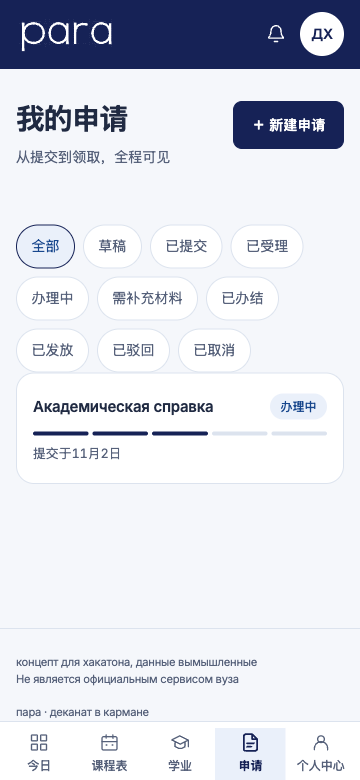
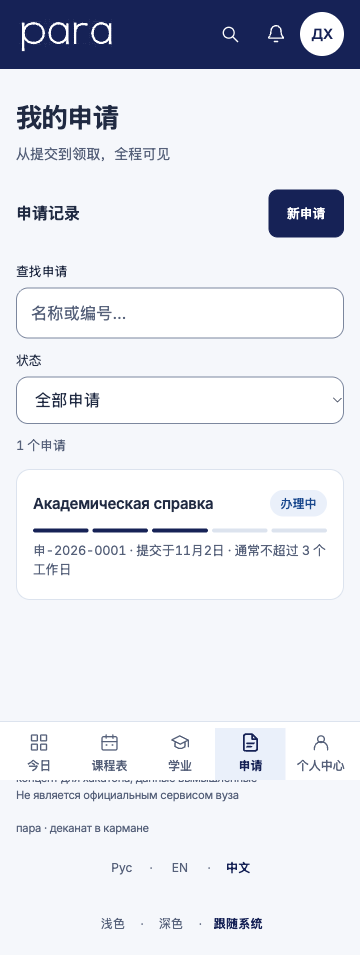
fe_rebuild v3: заявки, список — «История обращений», поиск по названию и витринному номеру З-ГГГГ-NNNN, фильтр групп статусов с ?status=, счётчик с plural (aria-live), «Сбросить фильтры», body.document-flow; ctest 2/2, security 119/119

diff --git a/static/js/app.js b/static/js/app.js
@@ -1780,9 +1780,54 @@
      фильтр ?status= — чипы-ссылки). Здесь только «Повторить» состояния
      ошибки: реально перезапрашивает — перезагрузка страницы (03 §5.3);
      офлайн обслуживает баннер каркаса (topbar + applyOffline, 03 §5.4). */
+  /* v3 (шаг 12): поиск по названию и витринному номеру (data-search карточки
+     — только то, что уже отрисовал сервер) + select групп статусов
+     (data-group, группы — шапка applications.csp); счётчик с plural
+     (data-one/few/many — словарь сервера), «Сбросить фильтры» → фокус в
+     поиск; группа синхронизируется с ?status= (replaceState). */
   if (document.body.dataset.page === 'applications') {
     const applicationsRetry = document.querySelector('[data-applications-retry]');
     if (applicationsRetry) applicationsRetry.addEventListener('click', () => window.location.reload());
+    const search = document.getElementById('application-search');
+    const filter = document.getElementById('application-filter');
+    const list = document.getElementById('application-list');
+    const count = document.querySelector('[data-apps-count]');
+    const filteredEmpty = document.querySelector('[data-apps-filtered-empty]');
+    const reset = document.querySelector('[data-apps-reset]');
+    if (search && filter && list) {
+      const cards = Array.from(list.querySelectorAll('.app-card'));
+      const norm = (v) => String(v || '').toLowerCase().replace(/ё/g, 'е').trim();
+      const plural = (n) => {
+        if (!count) return '';
+        if (LANG !== 'ru') return n === 1 ? count.dataset.one : count.dataset.many;
+        const m10 = n % 10, m100 = n % 100;
+        if (m10 === 1 && m100 !== 11) return count.dataset.one;
+        if (m10 >= 2 && m10 <= 4 && (m100 < 12 || m100 > 14)) return count.dataset.few;
+        return count.dataset.many;
+      };
+      const render = () => {
+        const q = norm(search.value);
+        const g = filter.value;
+        let n = 0;
+        cards.forEach((card) => {
+          const ok = (!g || card.dataset.group === g) && (!q || norm(card.dataset.search).indexOf(q) !== -1);
+          card.hidden = !ok;
+          if (ok) n += 1;
+        });
+        list.hidden = n === 0;
+        if (filteredEmpty) filteredEmpty.hidden = n > 0;
+        if (count) count.textContent = n + ' ' + plural(n);
+      };
+      const syncUrl = () => {
+        const url = new URL(window.location.href);
+        if (filter.value) url.searchParams.set('status', filter.value); else url.searchParams.delete('status');
+        history.replaceState(null, '', url.pathname + url.search);
+      };
+      search.addEventListener('input', render);
+      filter.addEventListener('change', () => { syncUrl(); render(); });
+      if (reset) reset.addEventListener('click', () => { search.value = ''; filter.value = ''; syncUrl(); render(); search.focus(); });
+      render();
+    }
   }
 
   /* ---------- экран «Новая заявка» (views/application-form.csp; 03

diff --git a/static/css/app.css b/static/css/app.css
@@ -916,6 +916,8 @@ button.chip{font:inherit;cursor:pointer}
 .lang-switch span{color:var(--text-2)}
 
 /* ---- стыки эталона v3 и прод-разметки (fe_rebuild) ---- */
+.app-card[hidden],.app-list[hidden]{display:none!important}
+.document-flow .section-title .button{flex:none}
 .ob-footer .button{white-space:nowrap}
 .htmx-indicator.skeleton{display:none}
 .htmx-request .htmx-indicator.skeleton,.htmx-request.htmx-indicator.skeleton{display:block;opacity:1}

diff --git a/src/models/i18n.h b/src/models/i18n.h
@@ -146,17 +146,36 @@ inline constexpr Entry kRu[]{
     {"app.title", "Пара"},
     // apps.* — заявки (список, каталог, чипы статусов)
     {"apps.chooseOther", "выбрать другой тип"},
+    {"apps.docAvailable", "документ доступен"},
     {"apps.emptyText", "Нужна справка или заявление? Начните с каталога — типовая справка занимает три касания."},
     {"apps.filterA11y", "Фильтр заявок по статусу"},
+    {"apps.filterActive", "В работе"},
+    {"apps.filterAll", "Все заявки"},
+    {"apps.filterClosed", "Закрытые"},
+    {"apps.filterDraft", "Черновики"},
+    {"apps.filterIssued", "Выданы"},
+    {"apps.filterLabel", "Статус"},
+    {"apps.filterReady", "Готовы"},
+    {"apps.filterReply", "Нужен ваш ответ"},
+    {"apps.filteredEmptyText", "Измените фильтр или оформите новую заявку."},
+    {"apps.filteredEmptyTitle", "Таких заявок пока нет"},
     {"apps.formSubtitle", "Выберите документ — форма подставит данные профиля"},
     {"apps.formTitle", "Новая заявка"},
     {"apps.from", "от"},
+    {"apps.history", "История обращений"},
     {"apps.new", "+ Новая заявка"},
+    {"apps.newShort", "Новая заявка"},
+    {"apps.numberPrefix", "З"},
     {"apps.offlineDraft", "Нужна сеть для черновика"},
     {"apps.offlineSubmit", "Нужна сеть, чтобы отправить заявку"},
     {"apps.openCatalog", "Открыть каталог"},
+    {"apps.pickupOffice", "можно забрать в деканате"},
     {"apps.profileNote", "Данные подставлены из профиля — при получении проверьте паспорт"},
+    {"apps.replyCaption", "деканат ждёт ваш ответ"},
+    {"apps.resetFilters", "Сбросить фильтры"},
     {"apps.saveDraft", "Сохранить черновик"},
+    {"apps.searchLabel", "Найти заявку"},
+    {"apps.searchPlaceholder", "Название или номер…"},
     {"apps.stagesPrefix", "Пройдено этапов:"},
     {"apps.stagesTotal", "из 5"},
     {"apps.statusAccepted", "Принята"},
@@ -171,6 +190,7 @@ inline constexpr Entry kRu[]{
     {"apps.submitApp", "Отправить заявку"},
     {"apps.subtitle", "Каждый шаг — от подачи до получения"},
     {"apps.title", "Мои заявки"},
+    {"apps.usualShort", "обычно до 3 рабочих дней"},
     {"apps.usualTime", "Обычно готова до 3 рабочих дней"},
     // campus.* — блок «В кампусе» дашборда
     {"campus.canteen", "Столовая"},
@@ -489,6 +509,9 @@ inline constexpr Entry kRu[]{
     {"onboarding.title", "Настраиваем кабинет"},
     // plural.* — формы для счётчиков («N пар», «N событий»…);
     // en/zh формы множественного не различает — one/few/many совпадают
+    {"plural.applicationFew", "заявки"},
+    {"plural.applicationMany", "заявок"},
+    {"plural.applicationOne", "заявка"},
     {"plural.changeFew", "изменения"},
     {"plural.changeMany", "изменений"},
     {"plural.changeOne", "изменение"},
@@ -723,17 +746,36 @@ inline constexpr Entry kEn[]{
     {"a11y.themeGroup", "Theme"},
     {"app.title", "Para"},
     {"apps.chooseOther", "choose another type"},
+    {"apps.docAvailable", "document available"},
     {"apps.emptyText", "Need a certificate or a statement? Start from the catalog — a standard certificate takes three taps."},
     {"apps.filterA11y", "Filter requests by status"},
+    {"apps.filterActive", "In progress"},
+    {"apps.filterAll", "All requests"},
+    {"apps.filterClosed", "Closed"},
+    {"apps.filterDraft", "Drafts"},
+    {"apps.filterIssued", "Issued"},
+    {"apps.filterLabel", "Status"},
+    {"apps.filterReady", "Ready"},
+    {"apps.filterReply", "Your reply needed"},
+    {"apps.filteredEmptyText", "Change the filter or file a new request."},
+    {"apps.filteredEmptyTitle", "No matching requests yet"},
     {"apps.formSubtitle", "Pick a document — the form fills in your profile data"},
     {"apps.formTitle", "New request"},
     {"apps.from", "from"},
+    {"apps.history", "Request history"},
     {"apps.new", "+ New request"},
+    {"apps.newShort", "New request"},
+    {"apps.numberPrefix", "R"},
     {"apps.offlineDraft", "Go online to save the draft"},
     {"apps.offlineSubmit", "Go online to submit the request"},
     {"apps.openCatalog", "Open the catalog"},
+    {"apps.pickupOffice", "ready for pickup at the dean's office"},
     {"apps.profileNote", "Filled in from your profile — check the passport details on pickup"},
+    {"apps.replyCaption", "the dean's office awaits your reply"},
+    {"apps.resetFilters", "Reset filters"},
     {"apps.saveDraft", "Save draft"},
+    {"apps.searchLabel", "Find a request"},
+    {"apps.searchPlaceholder", "Title or number…"},
     {"apps.stagesPrefix", "Stages completed:"},
     {"apps.stagesTotal", "of 5"},
     {"apps.statusAccepted", "Accepted"},
@@ -748,6 +790,7 @@ inline constexpr Entry kEn[]{
     {"apps.submitApp", "Submit request"},
     {"apps.subtitle", "Every step, from filing to pickup"},
     {"apps.title", "My requests"},
+    {"apps.usualShort", "usually up to 3 working days"},
     {"apps.usualTime", "Usually ready within 3 business days"},
     {"campus.canteen", "Canteen"},
     {"campus.canteenHint", "See the menu"},
@@ -1048,6 +1091,9 @@ inline constexpr Entry kEn[]{
     {"onboarding.stepSchedule", "Checked the schedule"},
     {"onboarding.steps", "4 steps"},
     {"onboarding.title", "Setting up your account"},
+    {"plural.applicationFew", "requests"},
+    {"plural.applicationMany", "requests"},
+    {"plural.applicationOne", "request"},
     {"plural.changeFew", "changes"},
     {"plural.changeMany", "changes"},
     {"plural.changeOne", "change"},
@@ -1275,17 +1321,36 @@ inline constexpr Entry kZh[]{
     {"a11y.themeGroup", "主题"},
     {"app.title", "Para"},
     {"apps.chooseOther", "选择其他类型"},
+    {"apps.docAvailable", "文件可查看"},
     {"apps.emptyText", "需要证明或申请？从目录开始——常用证明三次点击即可提交。"},
     {"apps.filterA11y", "按状态筛选申请"},
+    {"apps.filterActive", "处理中"},
+    {"apps.filterAll", "全部申请"},
+    {"apps.filterClosed", "已关闭"},
+    {"apps.filterDraft", "草稿"},
+    {"apps.filterIssued", "已发放"},
+    {"apps.filterLabel", "状态"},
+    {"apps.filterReady", "已就绪"},
+    {"apps.filterReply", "需要您回复"},
+    {"apps.filteredEmptyText", "请更改筛选条件或提交新申请。"},
+    {"apps.filteredEmptyTitle", "暂无符合条件的申请"},
     {"apps.formSubtitle", "选择文件类型，表单会自动填入个人信息"},
     {"apps.formTitle", "新建申请"},
     {"apps.from", "提交于"},
+    {"apps.history", "申请记录"},
     {"apps.new", "＋ 新建申请"},
+    {"apps.newShort", "新申请"},
+    {"apps.numberPrefix", "申"},
     {"apps.offlineDraft", "保存草稿需要网络"},
     {"apps.offlineSubmit", "提交申请需要网络"},
     {"apps.openCatalog", "打开目录"},
+    {"apps.pickupOffice", "可到教务处领取"},
     {"apps.profileNote", "信息已从个人资料带入，领取时请核对证件"},
+    {"apps.replyCaption", "教务处等待您的回复"},
+    {"apps.resetFilters", "重置筛选"},
     {"apps.saveDraft", "保存草稿"},
+    {"apps.searchLabel", "查找申请"},
+    {"apps.searchPlaceholder", "名称或编号…"},
     {"apps.stagesPrefix", "已完成阶段："},
     {"apps.stagesTotal", "，共 5 项"},
     {"apps.statusAccepted", "已受理"},
@@ -1300,6 +1365,7 @@ inline constexpr Entry kZh[]{
     {"apps.submitApp", "提交申请"},
     {"apps.subtitle", "从提交到领取，全程可见"},
     {"apps.title", "我的申请"},
+    {"apps.usualShort", "通常不超过 3 个工作日"},
     {"apps.usualTime", "通常 3 个工作日内办结"},
     {"campus.canteen", "食堂"},
     {"campus.canteenHint", "查看菜单"},
@@ -1600,6 +1666,9 @@ inline constexpr Entry kZh[]{
     {"onboarding.stepSchedule", "已查看课程表"},
     {"onboarding.steps", "4 个步骤"},
     {"onboarding.title", "正在设置你的空间"},
+    {"plural.applicationFew", "个申请"},
+    {"plural.applicationMany", "个申请"},
+    {"plural.applicationOne", "个申请"},
     {"plural.changeFew", "项变动"},
     {"plural.changeMany", "项变动"},
     {"plural.changeOne", "项变动"},

diff --git a/src/controllers/ApplicationsCtrl.cpp b/src/controllers/ApplicationsCtrl.cpp
@@ -323,31 +323,39 @@ void ApplicationsCtrl::listPage(
 {
     // Сессию проверил LoginFilter (303 без неё — страница, 02 §6.3).
     const auto session = req->attributes()->get<para::SessionInfo>("session");
-    // query status — тот же фильтр, что у JSON API (значение из словаря
-    // CHECK DDL). НЕИЗВЕСТНОЕ — решение шага (см. шапку заголовка): 303 на
-    // /applications — страница не отвечает голым JSON, фильтр сбрасывается.
-    std::optional<std::string> statusFilter;
+    // query status (v3, шаг 12): группа фильтра списка ИЛИ прежнее значение
+    // словаря CHECK DDL — сводится к своей группе (ссылки ?status=need_info
+    // продолжают работать). Сервис отдаёт ПОЛНЫЙ список: фильтр и поиск —
+    // клиентские поверх SSR-карточек (app.js), группа только предвыбирает
+    // фильтр и скрывает лишние карточки на SSR. НЕИЗВЕСТНОЕ → 303.
     const std::string status = req->getParameter("status");
+    std::string group;
     if (!status.empty())
     {
-        bool known = false;
-        for (const auto& s : models::kApplicationStatuses)
-            if (s == status)
+        static const std::pair<const char*, const char*> kGroupOf[] = {
+            {"active", "active"},       {"reply", "reply"},
+            {"ready", "ready"},         {"issued", "issued"},
+            {"draft", "draft"},         {"closed", "closed"},
+            {"submitted", "active"},    {"accepted", "active"},
+            {"in_progress", "active"},  {"need_info", "reply"},
+            {"rejected", "closed"},     {"cancelled", "closed"}};
+        for (const auto& g : kGroupOf)
+            if (status == g.first)
             {
-                known = true;
+                group = g.second;
                 break;
             }
-        if (!known)
+        if (group.empty())
         {
             cb(HttpResponse::newRedirectionResponse("/applications",
                                                      k303SeeOther));
             return;
         }
-        statusFilter = status;
     }
     ApplicationsService::list(
-        app().getDbClient("para"), session.userId, statusFilter,
-        [cb = std::move(cb), status = statusFilter,
+        app().getDbClient("para"), session.userId,
+        std::nullopt,  // полный список (см. выше)
+        [cb = std::move(cb), group,
          lang = i18n::resolveRequestLang(req)](
             ApplicationsService::Result r) mutable {
             // 5.18 (шаг 3): язык — para_lang → Accept-Language → ru;
@@ -365,7 +373,7 @@ void ApplicationsCtrl::listPage(
             else
             {
                 data.insert("failed", std::string("0"));
-                data.insert("statusFilter", std::string(status ? *status : ""));
+                data.insert("statusFilter", group);
                 data.insert("bodyJson", pageJson(r.body));
             }
             cb(HttpResponse::newHttpViewResponse("applications",

diff --git a/src/controllers/ApplicationsCtrl.h b/src/controllers/ApplicationsCtrl.h
@@ -35,11 +35,14 @@ using namespace drogon;
 // Страничная плоскость (Э7, экран «Заявки» 1 из 4; путь вне /v1/ — по
 // постановке 02 §3.2, как /schedule и /grades — Р-19):
 //   GET /applications         — views/applications.csp: список «Мои заявки»,
-//                               чипы-фильтры ?status= (значение из словаря
-//                               kApplicationStatuses; НЕИЗВЕСТНОЕ → 303 на
-//                               /applications — решение шага: страница не
-//                               отвечает голым JSON 400, невалидный фильтр
-//                               просто сбрасывается на «Все»);
+//                               фильтр ?status= (v3, fe_rebuild шаг 12):
+//                               группа active|reply|ready|issued|draft|closed
+//                               ИЛИ прежнее значение kApplicationStatuses
+//                               (сводится к своей группе). Сервис отдаёт
+//                               ПОЛНЫЙ список, группа только предвыбирает
+//                               фильтр (клиентский фильтр и поиск — app.js).
+//                               НЕИЗВЕСТНОЕ → 303 на /applications (страница
+//                               не отвечает голым JSON 400);
 //   GET /applications/new     — views/application_form.csp: каталог типов +
 //                               форма 1–2 вопроса (данные грузит клиент:
 //                               GET /v1/application-types и /v1/me).

diff --git a/tools/build_app_css.py b/tools/build_app_css.py
@@ -52,7 +52,9 @@ def chrome(css):
         return sel + '{' + body + '}'
     return re.sub(r'([^{}@]+)\{([^{}]*)\}', fix, css)
 
-FIXES = '''.ob-footer .button{white-space:nowrap}
+FIXES = '''.app-card[hidden],.app-list[hidden]{display:none!important}
+.document-flow .section-title .button{flex:none}
+.ob-footer .button{white-space:nowrap}
 .htmx-indicator.skeleton{display:none}
 .htmx-request .htmx-indicator.skeleton,.htmx-request.htmx-indicator.skeleton{display:block;opacity:1}
 a.notification,a.app-card,a.next-class,a.lesson,a.staff-change{text-decoration:none}
